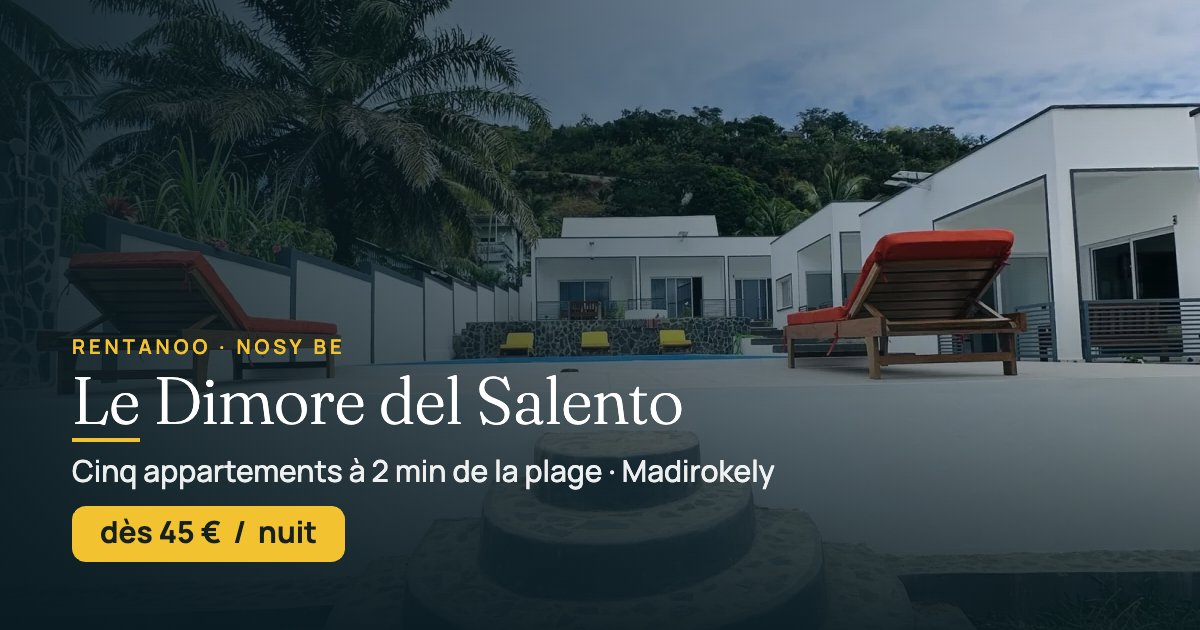
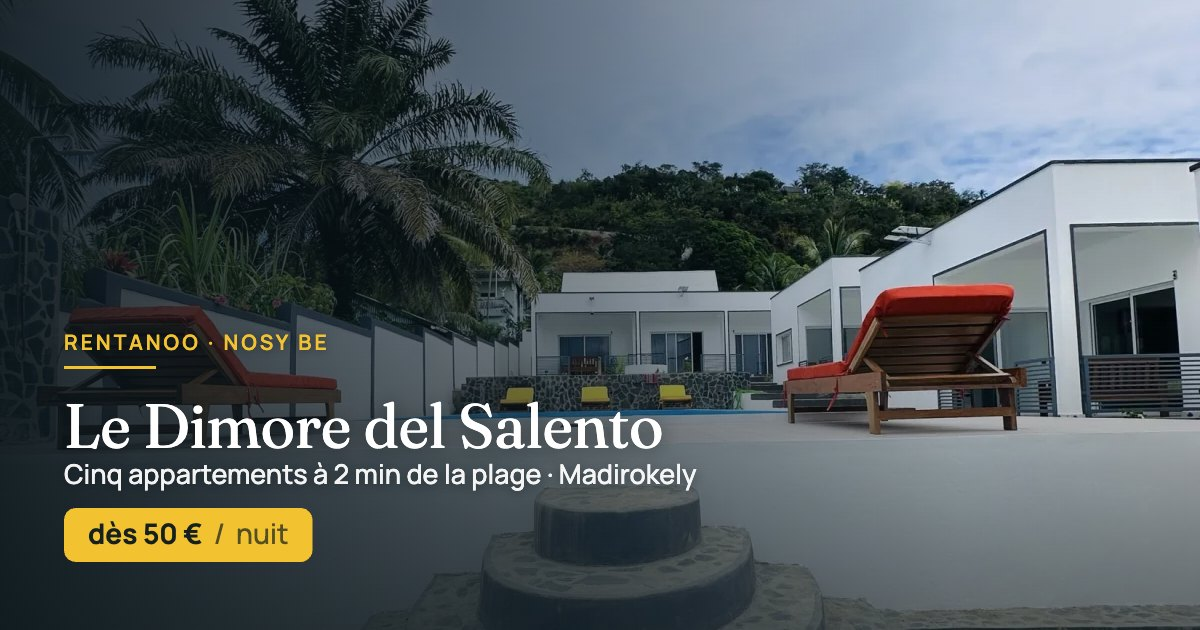
Partage: image OG régénérée à « dès 50 € » (og-v2.jpg, anti-cache)

diff --git a/index.html b/index.html
@@ -22,7 +22,7 @@
 <meta property="og:url" content="https://ledimoredelsalento.rentanoo.com/">
 <meta property="og:title" content="Le Dimore del Salento — Appartements à 2 min de la plage · Nosy Be">
 <meta property="og:description" content="Appartements neufs climatisés à 2 min de la plage de Madirokely, Nosy Be. Wifi Starlink, calme, sécurisé, parking, piscine partagée. Réservez en direct dès 50 € la nuit.">
-<meta property="og:image" content="https://ledimoredelsalento.rentanoo.com/images/og.jpg">
+<meta property="og:image" content="https://ledimoredelsalento.rentanoo.com/images/og-v2.jpg">
 <meta property="og:image:width" content="1200">
 <meta property="og:image:height" content="630">
 <meta property="og:image:alt" content="Le Dimore del Salento — Madirokely, Nosy Be">
@@ -30,10 +30,10 @@
 <meta name="twitter:card" content="summary_large_image">
 <meta name="twitter:title" content="Le Dimore del Salento — Appartements à 2 min de la plage · Nosy Be">
 <meta name="twitter:description" content="Appartements neufs climatisés à 2 min de la plage de Madirokely, Nosy Be. Réservez en direct dès 50 € la nuit.">
-<meta name="twitter:image" content="https://ledimoredelsalento.rentanoo.com/images/og.jpg">
+<meta name="twitter:image" content="https://ledimoredelsalento.rentanoo.com/images/og-v2.jpg">
 
 <script type="application/ld+json">
-{"@context":"https://schema.org","@type":"LodgingBusiness","name":"Le Dimore del Salento","description":"Résidence de cinq appartements neufs et climatisés à deux minutes de la plage de Madirokely, Nosy Be. Climatisation, wifi Starlink, calme, sécurisé, parking, piscine partagée.","url":"https://ledimoredelsalento.rentanoo.com/","image":["https://ledimoredelsalento.rentanoo.com/images/og.jpg","https://ledimoredelsalento.rentanoo.com/images/hero-1.webp"],"telephone":"+261373437912","email":"chrisrentanoo@gmail.com","priceRange":"À partir de 50 € la nuit","currenciesAccepted":"EUR","numberOfRooms":5,"address":{"@type":"PostalAddress","addressLocality":"Madirokely","addressRegion":"Nosy Be","addressCountry":"MG"},"areaServed":"Nosy Be","amenityFeature":[{"@type":"LocationFeatureSpecification","name":"Climatisation","value":true},{"@type":"LocationFeatureSpecification","name":"Wifi Starlink","value":true},{"@type":"LocationFeatureSpecification","name":"Piscine partagée","value":true},{"@type":"LocationFeatureSpecification","name":"Parking","value":true},{"@type":"LocationFeatureSpecification","name":"Sécurité","value":true},{"@type":"LocationFeatureSpecification","name":"Cuisine équipée","value":true}],"sameAs":["https://rentanoo.com/hebergement/D3C8CDA7","https://www.airbnb.fr/rooms/1724758128139677758"]}
+{"@context":"https://schema.org","@type":"LodgingBusiness","name":"Le Dimore del Salento","description":"Résidence de cinq appartements neufs et climatisés à deux minutes de la plage de Madirokely, Nosy Be. Climatisation, wifi Starlink, calme, sécurisé, parking, piscine partagée.","url":"https://ledimoredelsalento.rentanoo.com/","image":["https://ledimoredelsalento.rentanoo.com/images/og-v2.jpg","https://ledimoredelsalento.rentanoo.com/images/hero-1.webp"],"telephone":"+261373437912","email":"chrisrentanoo@gmail.com","priceRange":"À partir de 50 € la nuit","currenciesAccepted":"EUR","numberOfRooms":5,"address":{"@type":"PostalAddress","addressLocality":"Madirokely","addressRegion":"Nosy Be","addressCountry":"MG"},"areaServed":"Nosy Be","amenityFeature":[{"@type":"LocationFeatureSpecification","name":"Climatisation","value":true},{"@type":"LocationFeatureSpecification","name":"Wifi Starlink","value":true},{"@type":"LocationFeatureSpecification","name":"Piscine partagée","value":true},{"@type":"LocationFeatureSpecification","name":"Parking","value":true},{"@type":"LocationFeatureSpecification","name":"Sécurité","value":true},{"@type":"LocationFeatureSpecification","name":"Cuisine équipée","value":true}],"sameAs":["https://rentanoo.com/hebergement/D3C8CDA7","https://www.airbnb.fr/rooms/1724758128139677758"]}
 </script>
 
 <link rel="preconnect" href="https://fonts.googleapis.com">
